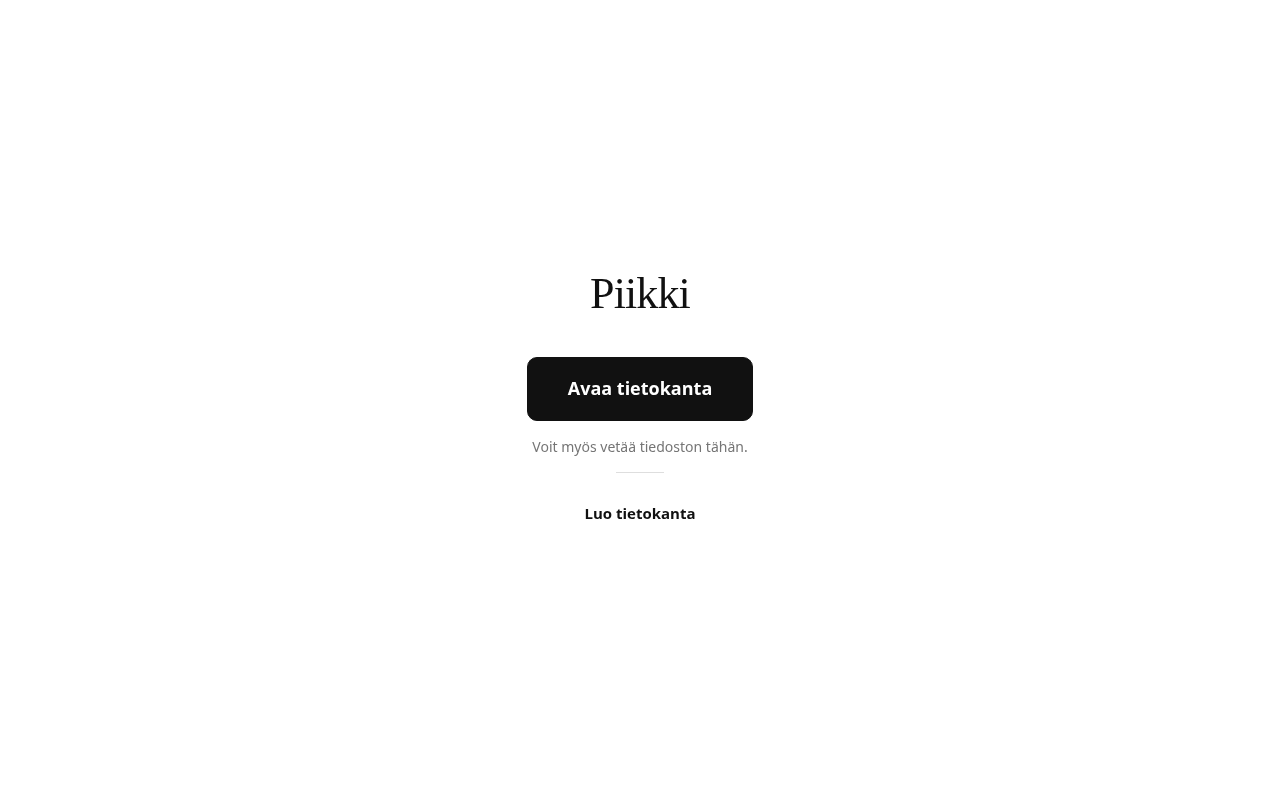
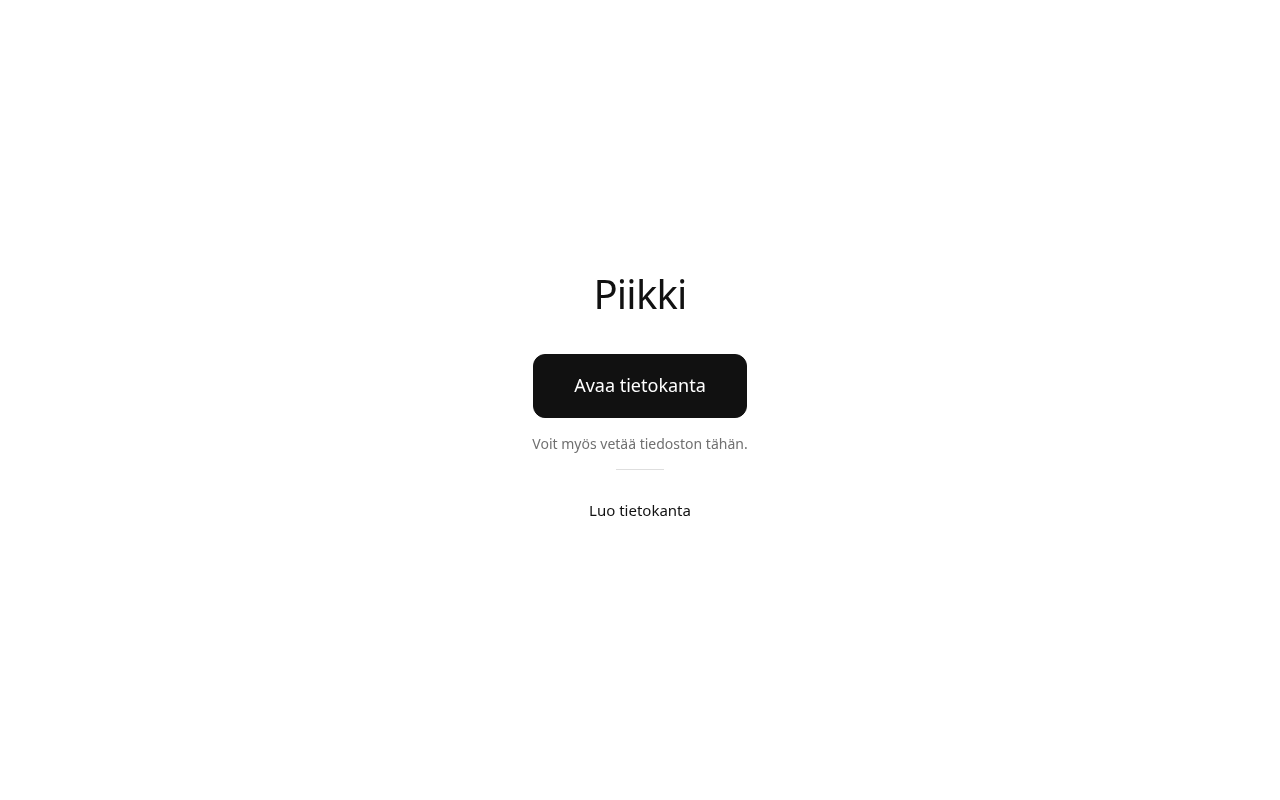
fix(ui): merge outlined tile rules, keep hint geometry, refresh screenshots

Changed region(s): [[0.4062, 0.4375, 0.5938, 0.5625], [0.4688, 0.3438, 0.5625, 0.4062], [0.4375, 0.625, 0.5625, 0.6562]]

diff --git a/src/app/styles.css b/src/app/styles.css
@@ -755,10 +755,8 @@ ul {
 .tile:hover:not(:disabled) .tile-detail {
   color: inherit;
 }
-.tile-category {
-  background: transparent;
-  border: 1px solid var(--line);
-}
+/* Categories and the way back open or leave a group, so they are outlines, not filled like items. */
+.tile-category,
 .tile-back {
   background: transparent;
   border: 1px solid var(--line);
@@ -954,7 +952,7 @@ ul {
   min-height: 40px;
   align-items: center;
   padding: 6px 12px;
-  border: 0;
+  border: 1px solid transparent;
   border-radius: var(--radius-sm);
   background: var(--surface);
   text-align: left;
